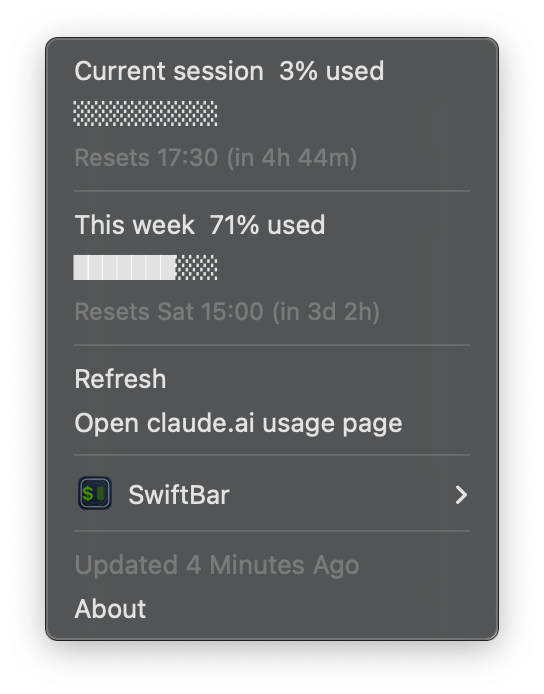
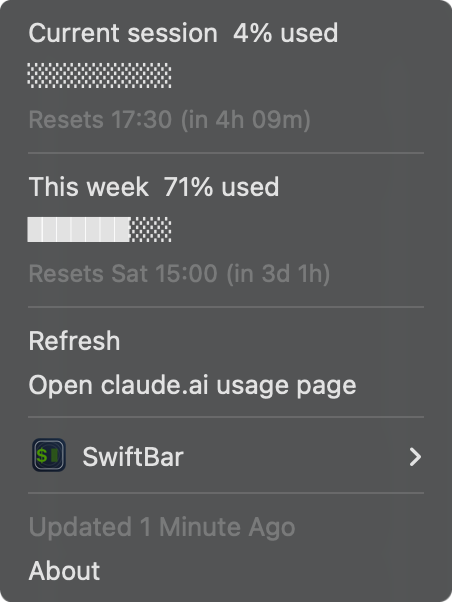
docs: refresh menu bar and dropdown screenshots

diff --git a/README.md b/README.md
@@ -24,13 +24,13 @@ The menu bar text turns orange when either value reaches 75% and red at 90%. Cli
 
 ### Menu bar
 
-<img src="docs/images/menubar.png" width="110" alt="UsageBar in the menu bar showing 3% · 71%">
+<img src="docs/images/menubar.png" width="99" alt="UsageBar in the menu bar showing 4% · 71%">
 
 ### Dropdown menu
 
 <picture>
   <source media="(prefers-color-scheme: dark)" srcset="docs/images/menu-dark.png">
-  <img src="docs/images/menu-light.png" width="272" alt="UsageBar dropdown menu with session and weekly usage, progress bars and reset times">
+  <img src="docs/images/menu-light.png" width="226" alt="UsageBar dropdown menu with session and weekly usage, progress bars and reset times">
 </picture>
 
 ## Requirements

diff --git a/README.zh-CN.md b/README.zh-CN.md
@@ -24,13 +24,13 @@
 
 ### 菜单栏
 
-<img src="docs/images/menubar.png" width="110" alt="菜单栏中的 UsageBar，显示 3% · 71%">
+<img src="docs/images/menubar.png" width="99" alt="菜单栏中的 UsageBar，显示 4% · 71%">
 
 ### 下拉菜单
 
 <picture>
   <source media="(prefers-color-scheme: dark)" srcset="docs/images/menu-dark.png">
-  <img src="docs/images/menu-light.png" width="272" alt="UsageBar 下拉菜单，显示会话和本周用量、进度条及重置时间">
+  <img src="docs/images/menu-light.png" width="226" alt="UsageBar 下拉菜单，显示会话和本周用量、进度条及重置时间">
 </picture>
 
 ## 环境要求
